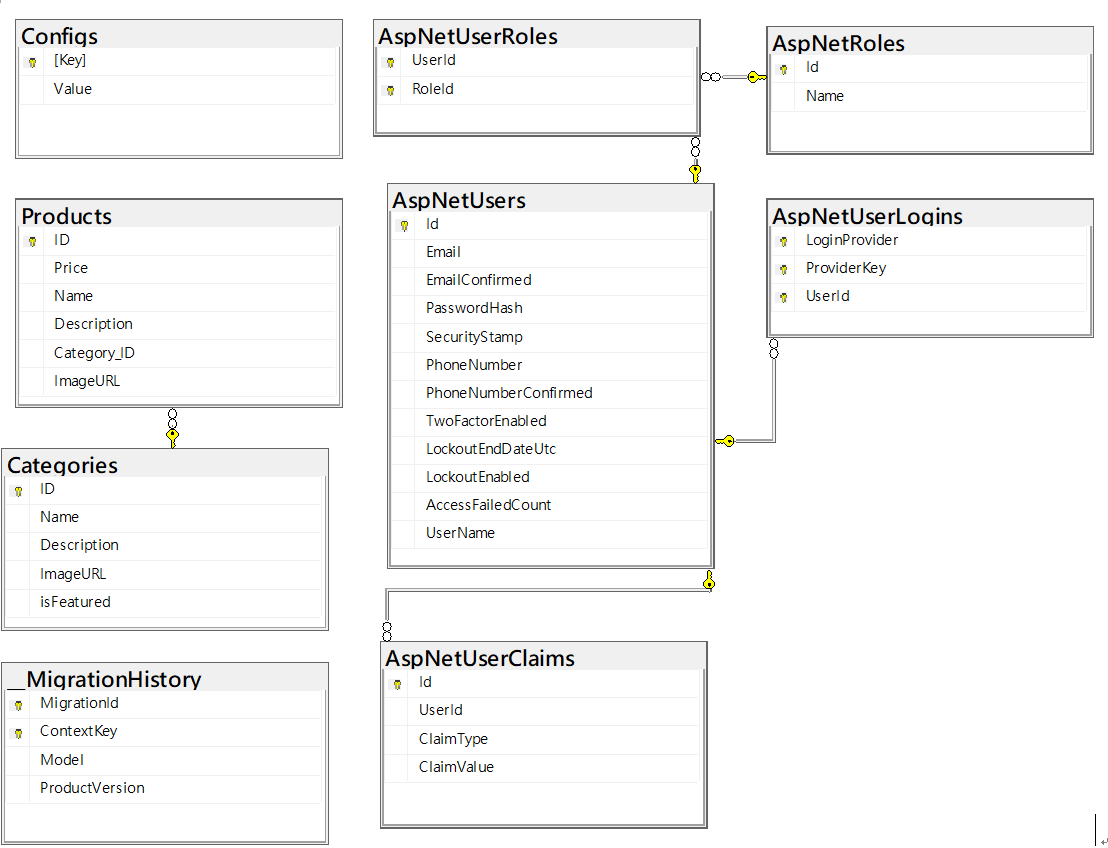
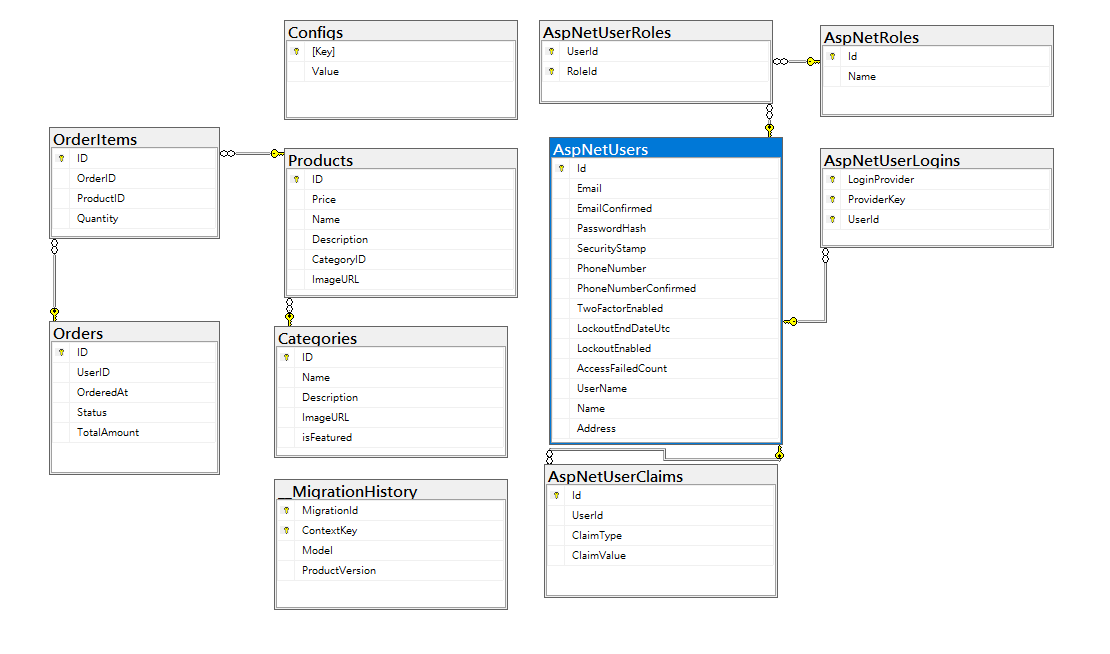
README.md

diff --git a/MVC_eCom.Services/CategoriesServices.cs b/MVC_eCom.Services/CategoriesServices.cs
@@ -9,6 +9,9 @@ using System.Data.Entity;
 
 namespace MVC_eCom.Services
 {
+    /// <summary>
+    /// 商業邏輯層
+    /// </summary>
     public class CategoriesService
     {
         #region Singleton
@@ -28,6 +31,11 @@ namespace MVC_eCom.Services
 
         }
         #endregion
+        /// <summary>
+        /// 找出分類ID
+        /// </summary>
+        /// <param name="ID"></param>
+        /// <returns></returns>
         public Category GetCategory(int ID)
         {
             using (var context = new CBContext())
@@ -35,31 +43,45 @@ namespace MVC_eCom.Services
                 return context.Categories.Find(ID);
             }
         }
+        /// <summary>
+        /// 計算分類總數
+        /// </summary>
+        /// <param name="search">搜尋</param>
+        /// <returns></returns>
         public int GetCategoriesCount(string search)
         {
             using (var context = new CBContext())
             {
+                //是否搜尋
                 if (!string.IsNullOrEmpty(search))
                 {
-                    return context.Categories.Where(category => category.Name != null && category.Name.ToLower()
+                    return context.Categories
+                        //名字不得為空且英文字轉小寫
+                        .Where(category => category.Name != null && category.Name.ToLower()
+                        //是否包含轉小寫的搜尋字詞
                         .Contains(search.ToLower()))
+                        //計算總數
                         .Count();
                 }
                 else
                 {
-
+                    //若沒有搜尋字詞的話，計算全部分類總數
                     return context.Categories.Count();
                 }
             }
         }
+        /// <summary>
+        /// 所有分類
+        /// </summary>
+        /// <returns></returns>
         public List<Category> GetAllCategories()
         {
             using (var context = new CBContext())
             {
-                    return context.Categories.ToList();
+                return context.Categories.ToList();
             }
         }
-        public List<Category> GetCategories(string search,int pageNo)
+        public List<Category> GetCategories(string search, int pageNo)
         {
             int pageSize = 3;
             using (var context = new CBContext())
@@ -77,20 +99,20 @@ namespace MVC_eCom.Services
                 else
                 {
 
-                return context.Categories
-                        .OrderBy(x => x.ID)
-                        .Skip((pageNo - 1) * pageSize)
-                        .Take(pageSize)
-                        .Include(x => x.Products)
-                        .ToList();
+                    return context.Categories
+                            .OrderBy(x => x.ID)
+                            .Skip((pageNo - 1) * pageSize)
+                            .Take(pageSize)
+                            .Include(x => x.Products)
+                            .ToList();
                 }
             }
-        } 
+        }
         public List<Category> GetFeaturedCategories()
         {
             using (var context = new CBContext())
             {
-                return context.Categories.Where(x=>x.isFeatured && x.ImageURL !=null).ToList();
+                return context.Categories.Where(x => x.isFeatured && x.ImageURL != null).ToList();
             }
         }
         public void SaveCategory(Category category)
@@ -113,7 +135,7 @@ namespace MVC_eCom.Services
         {
             using (var context = new CBContext())
             {
-                var category = context.Categories.Where(x=>x.ID==ID).Include(x=>x.Products).FirstOrDefault();
+                var category = context.Categories.Where(x => x.ID == ID).Include(x => x.Products).FirstOrDefault();
                 context.Products.RemoveRange(category.Products);
                 context.Categories.Remove(category);
                 context.SaveChanges();

diff --git a/MVC_eCom.Web/Controllers/CategoryController.cs b/MVC_eCom.Web/Controllers/CategoryController.cs
@@ -9,22 +9,37 @@ using System.Web.Mvc;
 
 namespace MVC_eCom.Web.Controllers
 {
+    /// <summary>
+    /// 分類
+    /// </summary>
     public class CategoryController : Controller
     {
-
+        /// <summary>
+        /// 分類首頁
+        /// </summary>
+        /// <returns></returns>
         [HttpGet]
         public ActionResult Index()
         {
 
             return View();
         }
+        /// <summary>
+        /// 表格(分類)
+        /// </summary>
+        /// <param name="search">搜尋</param>
+        /// <param name="pageNo">第幾頁</param>
+        /// <returns></returns>
         public ActionResult CategoryTable(string search, int? pageNo)
         {
             CategorySearchViewModel model = new CategorySearchViewModel();
+            //搜尋
             model.SearchTerm = search;
+            //若沒有選擇頁數的話，預設第一頁
             pageNo = pageNo.HasValue ? pageNo > 0 ? pageNo.Value : 1 : 1;
-
+            //計算搜尋類別的總數
             var totalRecords = CategoriesService.Instance.GetCategoriesCount(model.SearchTerm);
+            //撈出搜尋類別的第幾頁
             model.Categories = CategoriesService.Instance.GetCategories(search, pageNo.Value);
 
             if (model.Categories != null)
@@ -46,9 +61,15 @@ namespace MVC_eCom.Web.Controllers
             NewCategoryViewModel model = new NewCategoryViewModel();
             return PartialView(model);
         }
+        /// <summary>
+        /// 新增類別
+        /// </summary>
+        /// <param name="model"></param>
+        /// <returns></returns>
         [HttpPost]
         public ActionResult Create(NewCategoryViewModel model)
         {
+            //驗證資料是否正確
             if (ModelState.IsValid)
             {
                 var newCategory = new Category();
@@ -61,6 +82,7 @@ namespace MVC_eCom.Web.Controllers
             }
             else
             {
+                //錯誤的話回傳500 Internal Server Error：伺服器端錯誤
                 return new HttpStatusCodeResult(500);
             }
 
@@ -100,6 +122,10 @@ namespace MVC_eCom.Web.Controllers
             CategoriesService.Instance.DeleteCategory(ID);
             return RedirectToAction("CategoryTable");
         }
+        /// <summary>
+        /// 取得所有類別
+        /// </summary>
+        /// <returns></returns>
         public ActionResult GetMainCategories()
         {
             var categories = CategoriesService.Instance.GetAllCategories();

diff --git a/MVC_eCom.Services/OrdersService.cs b/MVC_eCom.Services/OrdersService.cs
@@ -1,0 +1,76 @@
+using MVC_eCom.Database;
+using MVC_eCom.Entities;
+using System;
+using System.Collections.Generic;
+using System.Linq;
+using System.Text;
+using System.Threading.Tasks;
+
+namespace MVC_eCom.Services
+{
+    public class OrdersService
+    {
+        #region Singleton
+
+        public static OrdersService Instance
+        {
+            get
+            {
+                if (instance == null) instance = new OrdersService();
+                return instance;
+            }
+
+        }
+        private static OrdersService instance { get; set; }
+
+
+
+        private OrdersService()
+        {
+            
+        }
+
+
+        #endregion
+
+        public List<Order> SearchOrders(string userID, string status, int pageNo, int pageSize)
+        {
+            using (var context = new CBContext())
+            {
+                var orders = context.Orders.ToList();
+                
+
+                if (!string.IsNullOrEmpty(userID))
+                {
+                    orders = orders.Where(x => x.UserID.ToLower().Contains(userID.ToLower())).ToList();
+                }
+                if (!string.IsNullOrEmpty(status))
+                {
+                    orders = orders.Where(x => x.Status.ToLower().Contains(userID.ToLower())).ToList();
+                }
+                return orders.Skip((pageNo - 1) * pageSize).Take(pageSize).ToList();
+
+            }
+        }
+
+        public int SearchOrdersCount(string userID,string status)
+        {
+            using (var context = new CBContext())
+            {
+                var orders = context.Orders.ToList();
+
+
+                if (!string.IsNullOrEmpty(userID))
+                {
+                    orders = orders.Where(x => x.UserID.ToLower().Contains(userID.ToLower())).ToList();
+                }
+                if (!string.IsNullOrEmpty(status))
+                {
+                    orders = orders.Where(x => x.Status.ToLower().Contains(userID.ToLower())).ToList();
+                }
+                return orders.Count;
+
+            }
+        }
+    }
+}

diff --git a/MVC_eCom.Web/Controllers/OrderController.cs b/MVC_eCom.Web/Controllers/OrderController.cs
@@ -1,0 +1,29 @@
+using MVC_eCom.Services;
+using MVC_eCom.Web.ViewModels;
+using System;
+using System.Collections.Generic;
+using System.Linq;
+using System.Web;
+using System.Web.Mvc;
+
+namespace MVC_eCom.Web.Controllers
+{
+    public class OrderController : Controller
+    {
+        // GET: Order
+        public ActionResult Index(string userID, string status, int? pageNo)
+        {
+            OrdersViewModel model = new OrdersViewModel();
+            model.UserID = userID;
+            model.Status = status;
+            pageNo = pageNo.HasValue ? pageNo > 0 ? pageNo.Value : 1 : 1;
+            var pageSize = ConfigurationsService.Instance.PageSize();
+
+            model.Orders = OrdersService.Instance.SearchOrders(userID, status, pageNo.Value, pageSize);
+            var totalRecords = OrdersService.Instance.SearchOrdersCount(userID, status);
+
+            model.Pager = new Pager(totalRecords, pageNo, pageSize);
+            return View(model);
+        }
+    }
+}

diff --git a/MVC_eCom.Web/ViewModels/OrdersViewModel.cs b/MVC_eCom.Web/ViewModels/OrdersViewModel.cs
@@ -1,0 +1,16 @@
+using MVC_eCom.Entities;
+using System;
+using System.Collections.Generic;
+using System.Linq;
+using System.Web;
+
+namespace MVC_eCom.Web.ViewModels
+{
+    public class OrdersViewModel
+    {
+        public List<Order> Orders { get; set; }
+        public string UserID { get; set; }
+        public Pager Pager { get; set; }
+        public string Status { get; set; }
+    }
+}

diff --git a/README.md b/README.md
@@ -1,0 +1,19 @@
+# MVC_eCom
+## 介紹
+本篇參考自Youtube教學影片所練習之作品
+## 作品
+
+###### 首頁
+![首頁](md-img/index.png)
+###### 登入頁面
+![登入頁面](md-img/login.png)
+###### 逛街
+![逛街](md-img/shop.png)
+
+###### 結帳
+![結帳](md-img/checkout.png)
+
+###### ERD
+![ERD](md-img/eCom_ERD.png)
+
+
